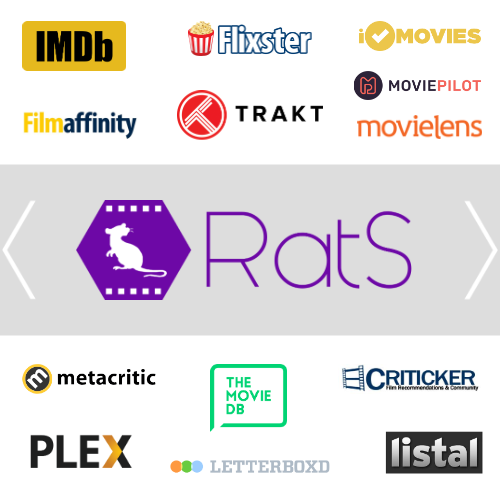
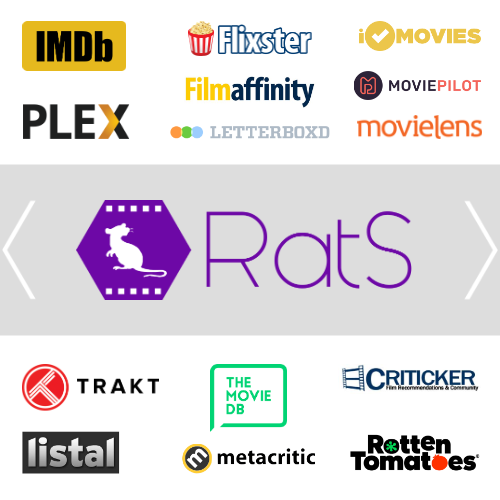
RottenTomates setup - refs #73

diff --git a/RatS/rottentomatoes/rottentomatoes_site.py b/RatS/rottentomatoes/rottentomatoes_site.py
@@ -1,0 +1,25 @@
+import time
+
+from RatS.base.base_site import Site
+
+
+class RottenTomatoes(Site):
+    def __init__(self, args):
+        login_form_selector = "//form[@id='login']"
+        self.LOGIN_USERNAME_SELECTOR = login_form_selector + "//input[@id='login_username']"
+        self.LOGIN_PASSWORD_SELECTOR = login_form_selector + "//input[@id='login_password']"
+        self.LOGIN_BUTTON_SELECTOR = login_form_selector + "//button[@type='submit']"
+        super(RottenTomatoes, self).__init__(args)
+        self.MY_RATINGS_URL = self._get_ratings_url()
+
+    def _get_login_page_url(self):
+        return "https://www.rottentomatoes.com/"
+
+    def _get_ratings_url(self):
+        time.sleep(1)  # wait for user login status to be checked
+        account_link = self.browser.find_element_by_id('headerUserSection').find_element_by_tag_name('a') \
+            .get_attribute('href')
+        self.USERID = account_link.replace('/user/id/', '').split('/')[0]
+        return 'https://www.rottentomatoes.com/napi/userProfile/movieRatings/{user_id}'.format(
+            user_id=self.USERID
+        )

diff --git a/tests/functional/sites/test_rottentomatoes_site.py b/tests/functional/sites/test_rottentomatoes_site.py
@@ -1,0 +1,16 @@
+from unittest import TestCase
+from unittest import skip
+
+from RatS.rottentomatoes.rottentomatoes_site import RottenTomatoes
+
+
+@skip('this test is unstable on travis')
+class RottenTomatoesSiteTest(TestCase):
+    def setUp(self):
+        self.site = RottenTomatoes(None)
+
+    def test_login(self):
+        self.assertIn(self.site.USERNAME, self.site.browser.page_source)
+
+    def tearDown(self):
+        self.site.browser_handler.kill()
